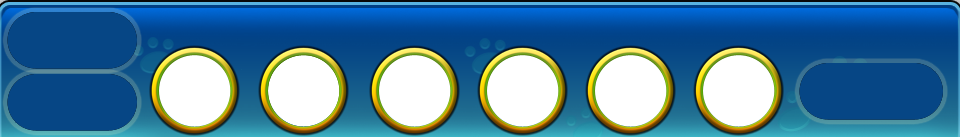
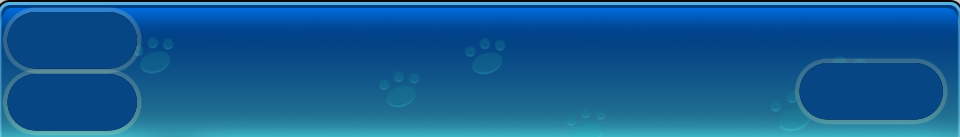
x

Changed region(s): [[0.1562, 0.3212, 0.8438, 0.9927]]

diff --git a/bin-debug/GameView.js b/bin-debug/GameView.js
@@ -11,6 +11,57 @@ var __extends = (this && this.__extends) || (function () {
         d.prototype = b === null ? Object.create(b) : (__.prototype = b.prototype, new __());
     };
 })();
+var __assign = (this && this.__assign) || Object.assign || function(t) {
+    for (var s, i = 1, n = arguments.length; i < n; i++) {
+        s = arguments[i];
+        for (var p in s) if (Object.prototype.hasOwnProperty.call(s, p))
+            t[p] = s[p];
+    }
+    return t;
+};
+var betBtnListConfig = [
+    {
+        name: 'shizi',
+        times: 'x15',
+        default: 'game_c1_png',
+        active: 'game_c1_active_png'
+    },
+    {
+        name: 'houzi',
+        times: 'x10',
+        default: 'game_c2_png',
+        active: 'game_c2_active_png'
+    },
+    {
+        name: 'banma',
+        times: 'x6',
+        default: 'game_c3_png',
+        active: 'game_c3_active_png'
+    },
+    {
+        name: 'luotuo',
+        times: 'x6',
+        default: 'game_c4_png',
+        active: 'game_c4_active_png'
+    },
+    {
+        name: 'tuoniao',
+        times: 'x4',
+        default: 'game_c5_png',
+        active: 'game_c5_active_png'
+    },
+    {
+        name: 'yezhu',
+        times: 'x4',
+        default: 'game_c6_png',
+        active: 'game_c6_active_png'
+    }
+];
+function mapWithIndex(arr, merge) {
+    return arr.map(function (item, index) {
+        return __assign({}, item, merge, { index: "" + index });
+    });
+}
 var GameView = (function (_super) {
     __extends(GameView, _super);
     function GameView() {
@@ -21,18 +72,31 @@ var GameView = (function (_super) {
     }
     GameView.prototype.childrenCreated = function () {
         var _this = this;
-        console.log(this.stage.stageWidth);
+        _super.prototype.createChildren.call(this);
         var roleConfig = RES.getRes('role_json');
         roleConfig.forEach(function (item, index) {
             var mcData = RES.getRes(item.data);
             var mcTexture = RES.getRes(item.texture);
             var mcFactory = new egret.MovieClipDataFactory(mcData, mcTexture);
             _this.roles[index] = new egret.MovieClip(mcFactory.generateMovieClipData('run'));
-            _this.roles[index].x = _this.stage.stageWidth - _this.roles[index].width - 20;
+            _this.roles[index].x = item.x;
             _this.roles[index].y = item.y;
-            _this.roles[index].gotoAndPlay(1, -1);
+            // this.roles[index].gotoAndPlay(1, -1)
             _this.addChild(_this.roles[index]);
         });
+        var betBtnCollection = new eui.ArrayCollection(mapWithIndex(betBtnListConfig, {
+            amount: 0,
+            state: 'default'
+        }));
+        this.betBtnList.dataProvider = betBtnCollection;
+        this.betBtnList.addEventListener('touchTap', function (e) {
+            console.log(typeof e.target.name);
+            if (e.target.name) {
+                var index = parseInt(e.target.name);
+                var collItem = betBtnCollection.getItemAt(index);
+                betBtnCollection.replaceItemAt(__assign({}, collItem, { state: 'active' }), index);
+            }
+        }, this);
     };
     return GameView;
 }(eui.Component));

diff --git a/src/GameView.ts b/src/GameView.ts
@@ -1,25 +1,92 @@
+var betBtnListConfig = [
+    {
+        name: 'shizi',
+        times: 'x15',
+        default: 'game_c1_png',
+        active: 'game_c1_active_png'
+    },
+    {
+        name: 'houzi',
+        times: 'x10',
+        default: 'game_c2_png',
+        active: 'game_c2_active_png'
+    },
+    {
+        name: 'banma',
+        times: 'x6',
+        default: 'game_c3_png',
+        active: 'game_c3_active_png'
+    },
+    {
+        name: 'luotuo',
+        times: 'x6',
+        default: 'game_c4_png',
+        active: 'game_c4_active_png'
+    },
+    {
+        name: 'tuoniao',
+        times: 'x4',
+        default: 'game_c5_png',
+        active: 'game_c5_active_png'
+    },
+    {
+        name: 'yezhu',
+        times: 'x4',
+        default: 'game_c6_png',
+        active: 'game_c6_active_png'
+    }
+]
+
+function mapWithIndex(arr, merge) {
+    return arr.map((item, index) => {
+        return {
+            ...item,
+            ...merge,
+            index: `${index}`
+        }
+    })
+}
+
 class GameView extends eui.Component {
     public constructor() {
         super()
         this.skinName = 'resource/skins/GameView.exml'
     }
 
-
     private roles: egret.MovieClip[] = []
+    private betBtnList: eui.List
+    private totalCoin: eui.Label
 
     public childrenCreated() {
-        console.log(this.stage.stageWidth)
+        super.createChildren()
         var roleConfig = RES.getRes('role_json')
         roleConfig.forEach((item, index) => {
             var mcData = RES.getRes(item.data)
             var mcTexture = RES.getRes(item.texture)
             var mcFactory = new egret.MovieClipDataFactory(mcData, mcTexture)
             this.roles[index] = new egret.MovieClip(mcFactory.generateMovieClipData('run'))
-            this.roles[index].x = this.stage.stageWidth - this.roles[index].width - 20
+            this.roles[index].x = item.x
             this.roles[index].y = item.y
-            this.roles[index].gotoAndPlay(1, -1)
+            // this.roles[index].gotoAndPlay(1, -1)
             this.addChild(this.roles[index])
         })
+
+        let betBtnCollection = new eui.ArrayCollection(mapWithIndex(betBtnListConfig, {
+            amount: 0,
+            state: 'default'
+        }))
+        this.betBtnList.dataProvider = betBtnCollection
+        this.betBtnList.addEventListener('touchTap', function(e) {
+            console.log(typeof e.target.name)
+            if (e.target.name) {
+                var index = parseInt(e.target.name)
+                var collItem = betBtnCollection.getItemAt(index)
+                betBtnCollection.replaceItemAt({
+                    ...collItem,
+                    state: 'active'
+                }, index)
+            }
+        }, this)
     }
 
 }

diff --git a/bin-debug/Role.js b/bin-debug/Role.js
@@ -1,0 +1,1 @@
+//# sourceMappingURL=Role.js.map
